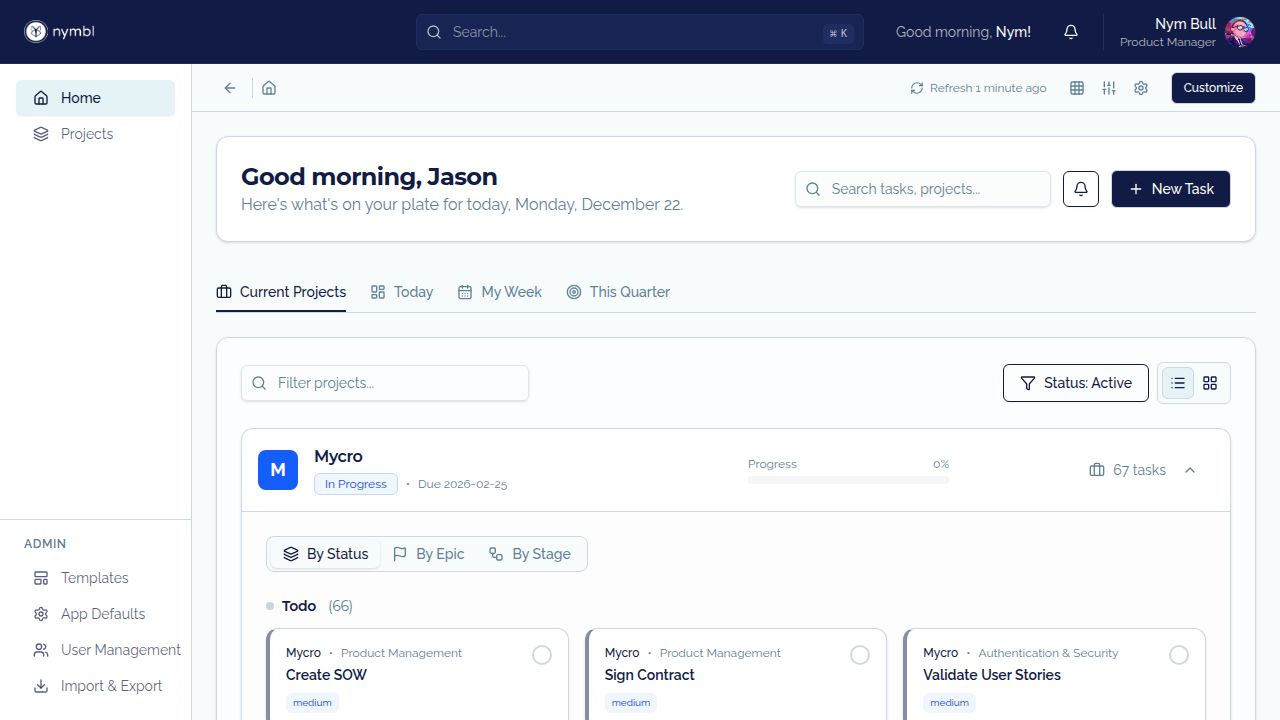
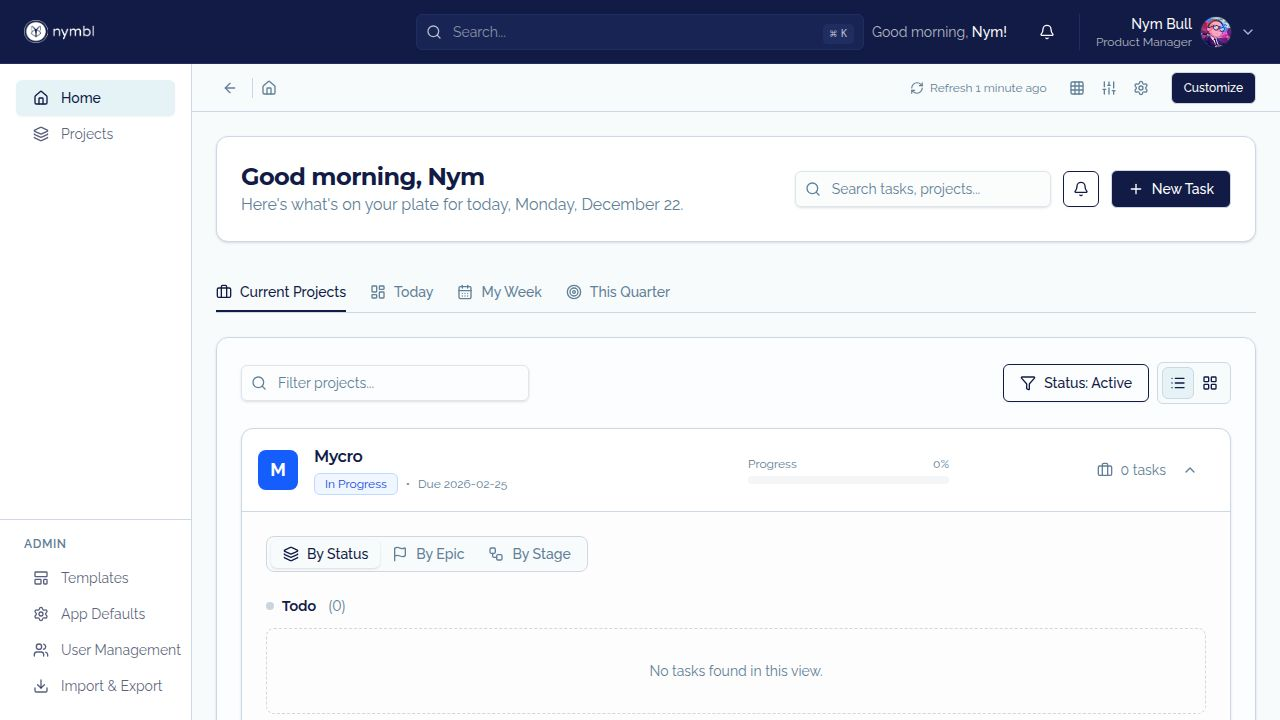
Improve user context initialization and handle empty user lists
Update `CurrentUserProvider` to correctly initialize `currentUserId` from the first user in the list and handle the edge case where no users exist, preventing infinite loading.

Replit-Commit-Author: Agent
Replit-Commit-Session-Id: 42ddebc8-cb5e-415d-9ec5-69316553bdea
Replit-Commit-Checkpoint-Type: intermediate_checkpoint
Replit-Commit-Event-Id: d17949f5-f229-4db7-8d60-85724339ac8d
Replit-Commit-Screenshot-Url: https://storage.googleapis.com/screenshot-production-us-central1/b106360e-09f2-42a0-919f-5b73528639a4/42ddebc8-cb5e-415d-9ec5-69316553bdea/Mmur6oc
Replit-Helium-Checkpoint-Created: true

diff --git a/client/src/contexts/current-user-context.tsx b/client/src/contexts/current-user-context.tsx
@@ -12,16 +12,24 @@ interface CurrentUserContextType {
 const CurrentUserContext = createContext<CurrentUserContextType | undefined>(undefined);
 
 export function CurrentUserProvider({ children }: { children: ReactNode }) {
-  const { data: users, isLoading } = useUsers();
-  const [currentUserId, setCurrentUserId] = useState<string>("1");
+  const { data: users, isLoading: usersLoading } = useUsers();
+  const [currentUserId, setCurrentUserId] = useState<string>("");
+  const [hasInitialized, setHasInitialized] = useState(false);
 
   useEffect(() => {
-    if (users && users.length > 0 && !users.find((u: any) => u.id === currentUserId)) {
+    if (!usersLoading && users !== undefined && !hasInitialized) {
+      if (users.length > 0) {
+        setCurrentUserId(users[0].id);
+      }
+      setHasInitialized(true);
+    } else if (users && users.length > 0 && currentUserId && !users.find((u: any) => u.id === currentUserId)) {
       setCurrentUserId(users[0].id);
     }
-  }, [users, currentUserId]);
+  }, [users, usersLoading, currentUserId, hasInitialized]);
 
   const currentUser = users?.find((u: any) => u.id === currentUserId) || null;
+  
+  const isLoading = usersLoading || !hasInitialized;
 
   return (
     <CurrentUserContext.Provider value={{ 
